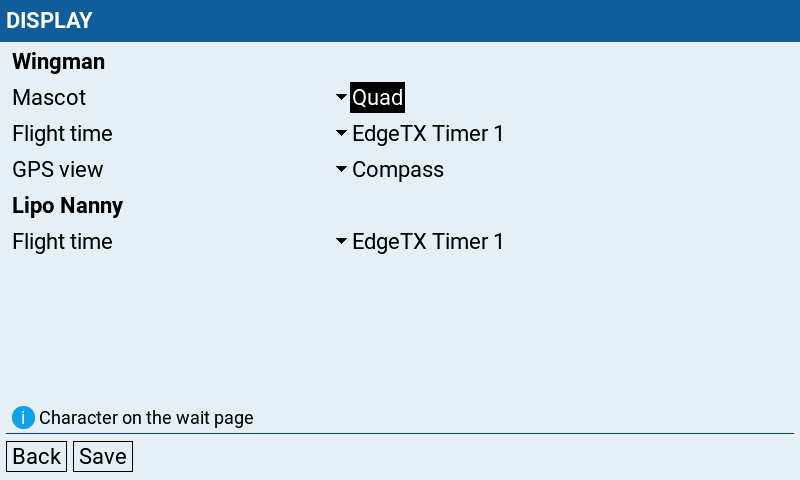
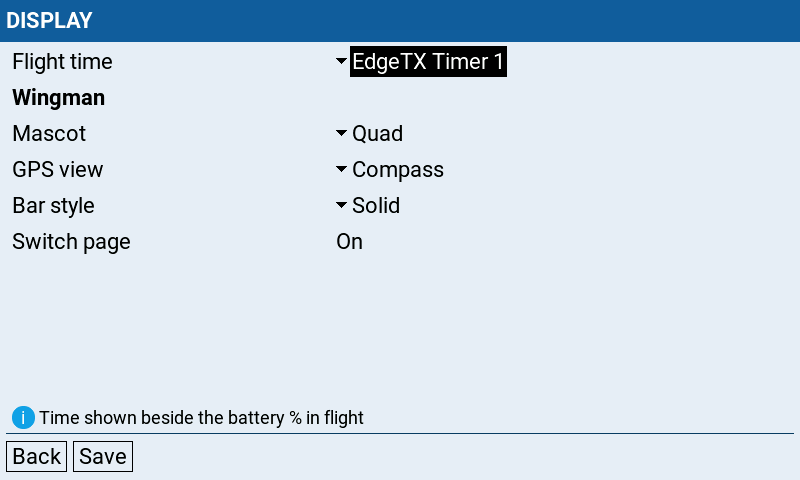
Flight Bag > Display: Flight time one shared row for Flight Wingman and Lipo Nanny, no heading for an app with only shared rows; Lipo Nanny resets keep the flight time; guide shows both mascots and the three bar styles, Display screenshot made again

diff --git a/docs/flightbag.md b/docs/flightbag.md
@@ -72,12 +72,12 @@ A **warning sign** on an icon means something needs attention: no settings file 
 sensor, or a setup step still open (for example no battery assigned to the active model). The popup names it in
 the warning colour.
 
-The resets ask for confirmation first. **Sounds**, **Vibration** and **Strength** are shared by all projects, so
-no reset changes them.
+The resets ask for confirmation first. **Sounds**, **Vibration**, **Strength** and **Flight time** are shared rows,
+so no reset changes them.
 
 | Project | Button | What it does |
 |---|---|---|
-| Lipo Nanny | **Reset settings** | Thresholds, warning sounds and flight time back to the defaults. Batteries, models and statistics stay. |
+| Lipo Nanny | **Reset settings** | Thresholds and warning sounds back to the defaults. Batteries, models and statistics stay. |
 | Lipo Nanny | **Reset stats** | Zeroes every pack's cycle count and statistics (Life mAh, Vmin, Last used) and empties the archive. Profiles and models stay. |
 | Lipo Nanny | **Factory reset** | Erases all batteries, models, statistics and settings. |
 | Link Sentinel | **Reset settings** | All Link Sentinel settings back to the defaults. |
@@ -289,27 +289,38 @@ empties the list.
 
 ## Display
 
-What the widgets show.
+What the widgets show. The shared row on top applies to Flight Wingman and Lipo Nanny at once, then the Flight Wingman block.
 
 <p align="center">
   <img src="img/flightbag-display.png" width="480" alt="Display page">
 </p>
+
+| Row | Notes |
+|---|---|
+| **Flight time** | The small value beside the battery percentage in flight, in Flight Wingman and in the Lipo Nanny widget: `EdgeTX Timer 1` (default, the model's Timer 1, shown as **TIMER**; nothing while Timer 1 is off) or `Remaining Timer` (Lipo Nanny's estimate of the remaining flight time, shown as **TIME LEFT**, `calc..` for the first 30 s of flying). If the two projects were set differently before, the row shows **Mixed** until you choose a value. |
 
 **Flight Wingman**
 
 | Row | Notes |
 |---|---|
 | **Mascot** | The character on the waiting page, `Quad` (default) or `Scout`. |
-| **Flight time** | The small value beside the battery percentage on the flight page: `EdgeTX Timer 1` (default, the model's Timer 1) or `Remaining Timer` (Lipo Nanny's estimate of the remaining flight time, `calc..` for the first 30 s of flying). |
 | **GPS view** | The layout of the flight page, `Compass` (default) or `Horizon` (large artificial horizon from the flight controller's pitch and roll). The horizon follows the model smoothly only with **Telem Ratio** 1:4 or faster in the ExpressLRS Lua script (with `Std` it moves only every few seconds). |
 | **Bar style** | How the battery, link and LQ bars look on the flight and preflight pages: `Solid` (default, one bar with marks at the thresholds), `Segments` (20 blocks, empty blocks in a warning range tinted yellow or red) or `Zones` (a thinner bar with a strip below it showing the warning ranges and a pointer at the current value). |
 | **Switch page** | `On` (default): on the waiting page, hold the aileron stick right for a second to see every switch of the radio with its channel, the flight modes it switches on in Betaflight or INAV (read from the flight controller at each connection and kept per model) and the special functions on each position; hold it left to go back. `Off` hides the page and skips the reading. |
 
-**Lipo Nanny**
+The two mascots on the waiting page:
 
-| Row | Notes |
+| `Quad` | `Scout` |
 |---|---|
-| **Flight time** | `EdgeTX Timer 1` (default) shows **TIMER** with the model's Timer 1 (nothing while Timer 1 is off); `Remaining Timer` shows **TIME LEFT**, the estimated remaining flight time. Applies to the Lipo Nanny widget; Flight Wingman uses its own row above. |
+| <img src="img/mascot-quad.png" width="300" alt="Quad: a green mini quadcopter with big eyes on its camera and a radio antenna"> | <img src="img/mascot-scout.png" width="300" alt="Scout: a green rounded robot head with big eyes, ears and a radio antenna"> |
+
+The three bar styles on the flight page, battery on the left and link on the right:
+
+| Bar style | Flight page |
+|---|---|
+| `Solid` | <img src="img/bar-style-solid.png" width="400" alt="Solid bars: one bar each, red and yellow marks at the battery thresholds, a yellow mark on the link bar"> |
+| `Segments` | <img src="img/bar-style-segments.png" width="400" alt="Segment bars: 20 blocks each, the empty blocks in the link's warning range tinted yellow"> |
+| `Zones` | <img src="img/bar-style-zones.png" width="400" alt="Zone bars: thinner bars with a red and yellow strip below the battery bar, a yellow strip below the link bar and a pointer at each value"> |
 
 ---
 
